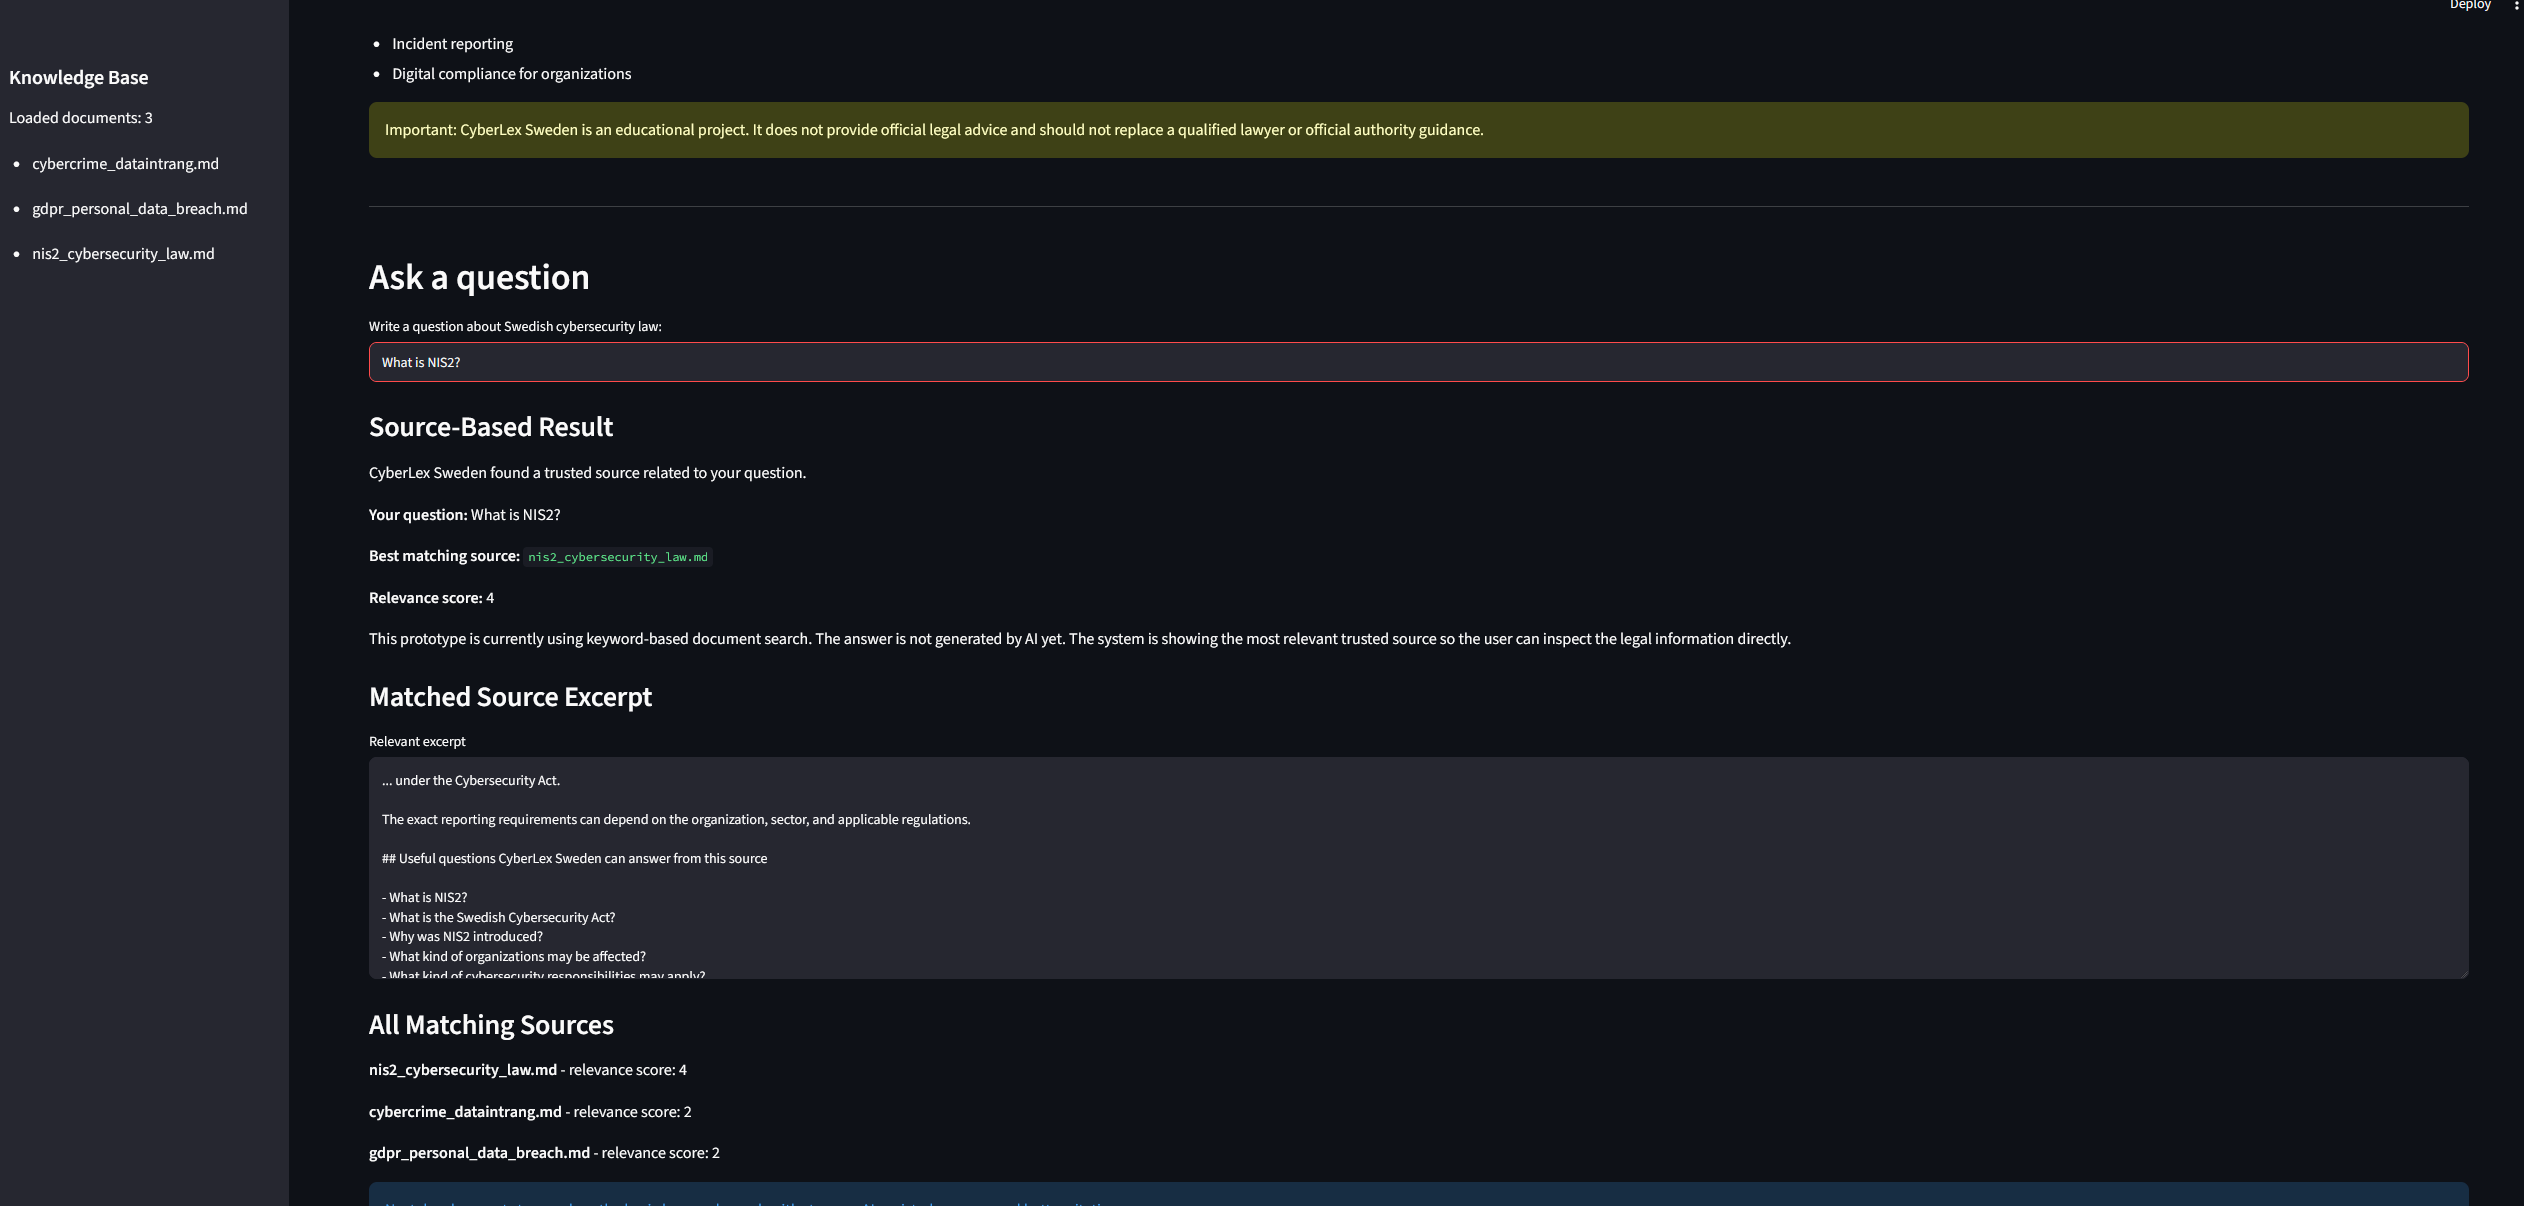
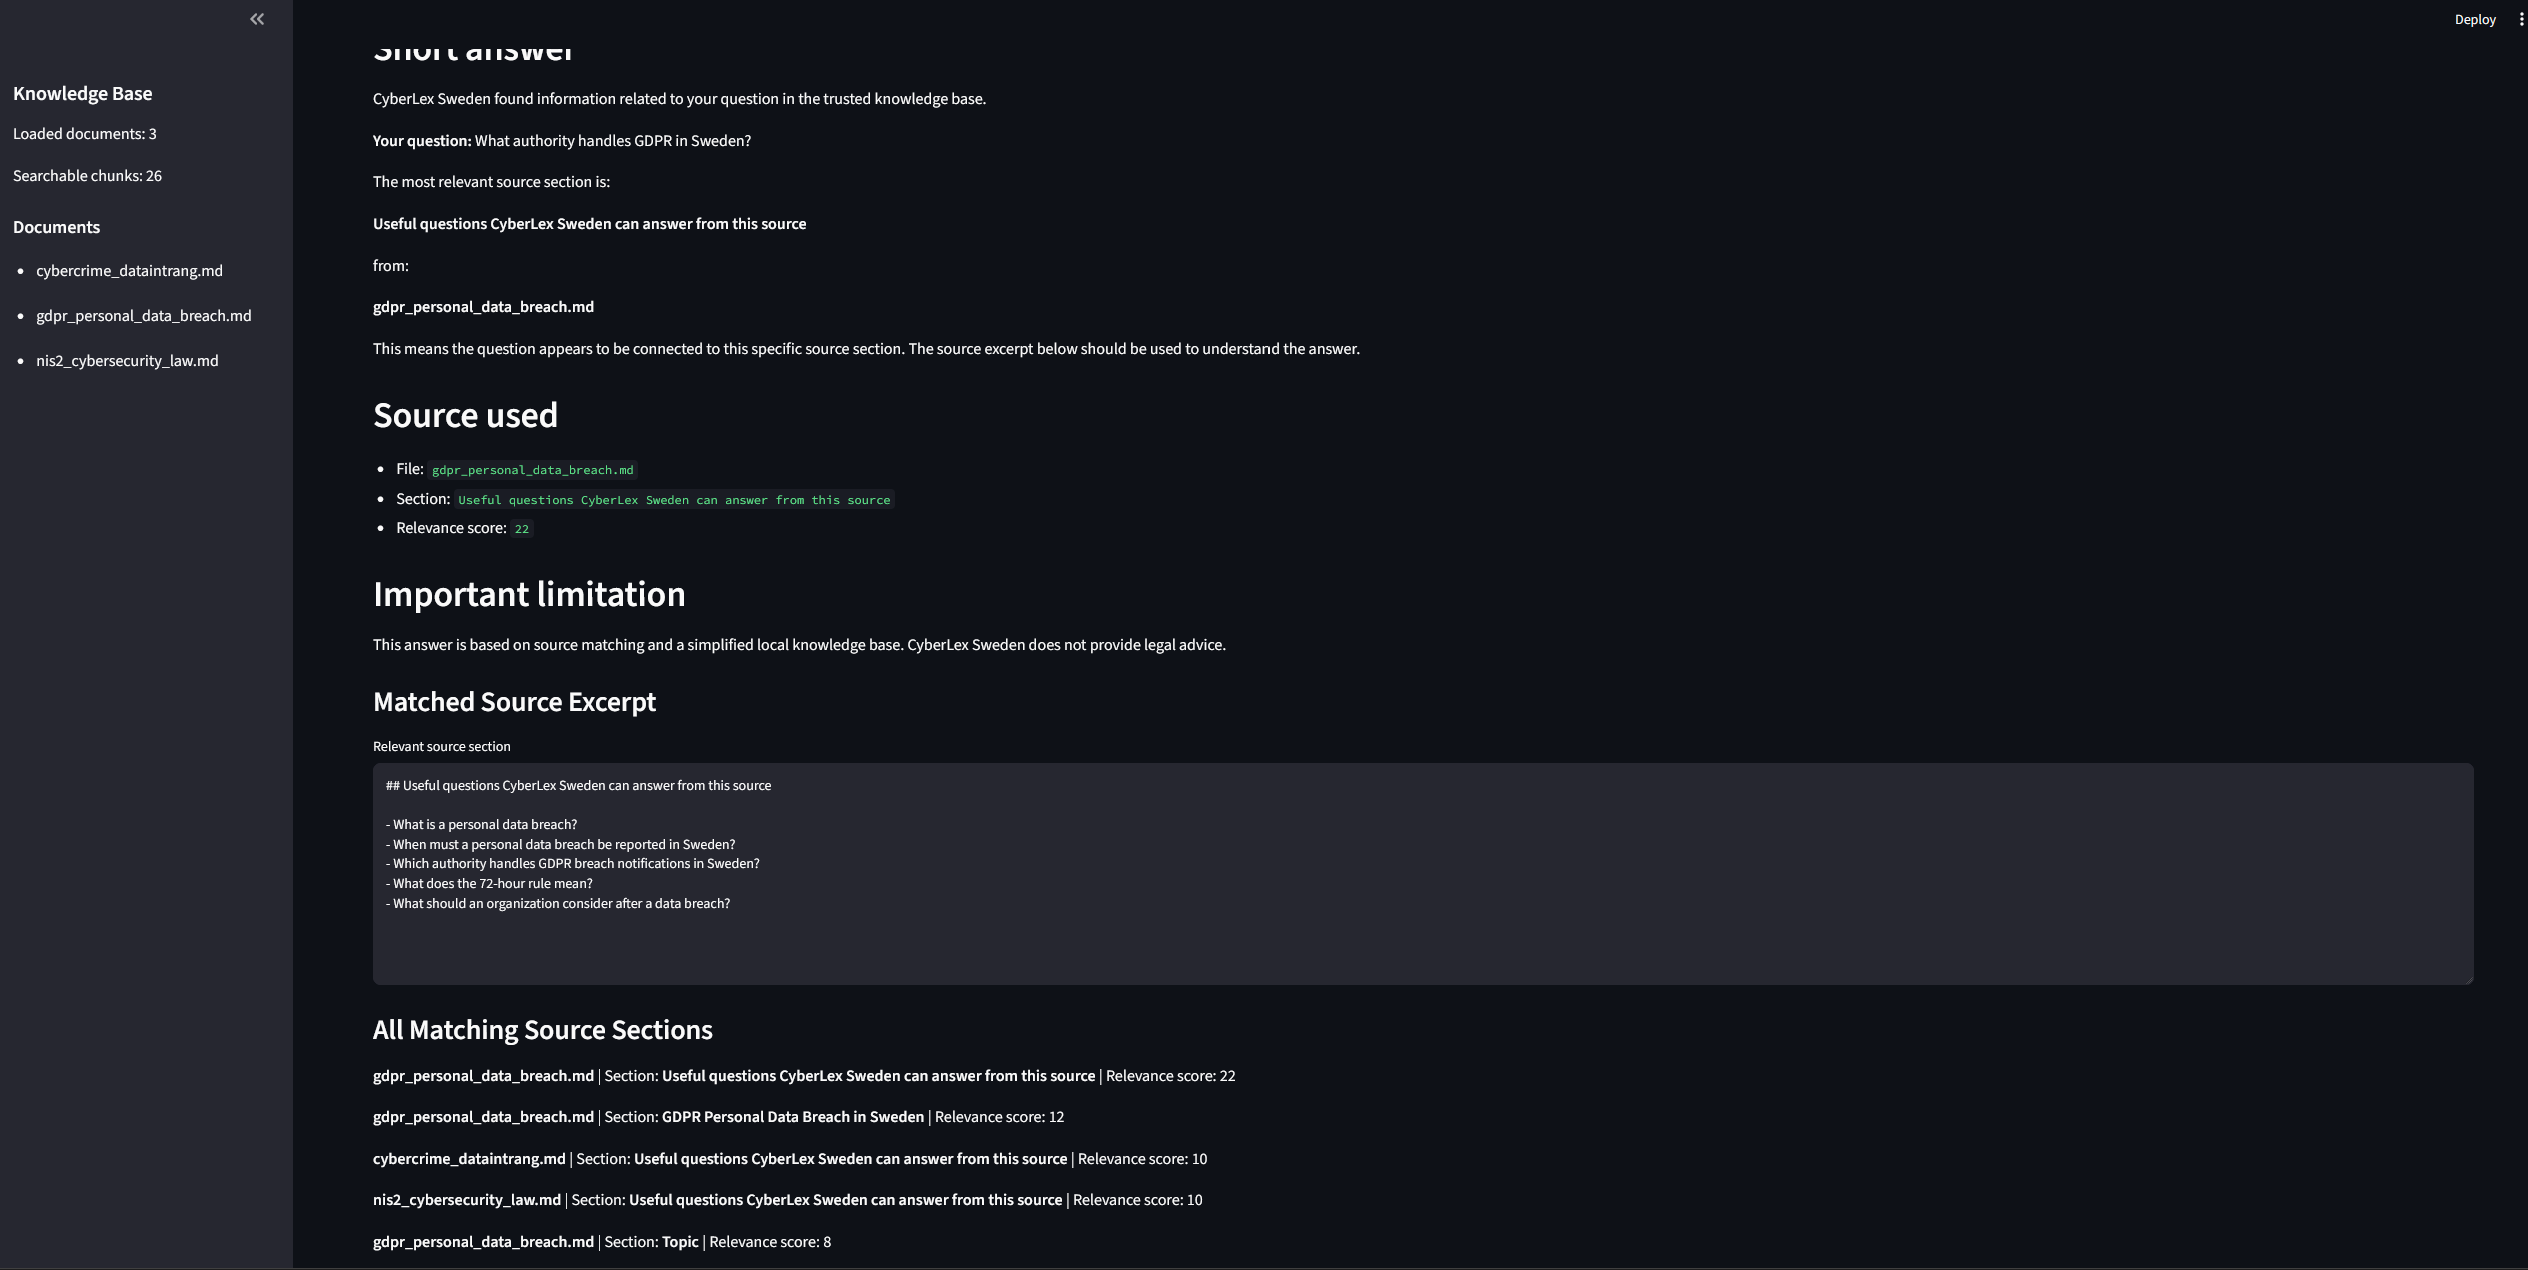
Improve source search results

diff --git a/app/main.py b/app/main.py
@@ -3,17 +3,30 @@ import streamlit as st
 
 st.set_page_config(
     page_title="CyberLex Sweden",
-    page_icon="🔐",
+    page_icon="💻",
     layout="wide"
 )
 
 DATA_DIR = Path("data")
 
 
+def clean_words(text):
+    """
+    Converts text into simple searchable words.
+    This makes matching easier by removing punctuation and using lowercase text.
+    """
+    punctuation = ",.?!:;()[]{}\"'`"
+    text = text.lower()
+
+    for mark in punctuation:
+        text = text.replace(mark, " ")
+
+    return text.split()
+
+
 def load_documents():
     """
     Loads all Markdown files from the data folder.
-    Each Markdown file becomes one searchable document.
     """
     documents = []
 
@@ -29,45 +42,94 @@ def load_documents():
     return documents
 
 
-def clean_words(text):
+def split_into_chunks(document):
     """
-    Converts text into simple searchable words.
-    This removes basic punctuation and makes everything lowercase.
+    Splits a Markdown document into smaller chunks based on headings.
+    Each chunk keeps track of the source filename and section title.
     """
-    punctuation = ",.?!:;()[]{}\"'`"
-    text = text.lower()
+    filename = document["filename"]
+    content = document["content"]
 
-    for mark in punctuation:
-        text = text.replace(mark, " ")
+    chunks = []
+    current_title = "Introduction"
+    current_lines = []
 
-    return text.split()
+    for line in content.splitlines():
+        if line.startswith("#"):
+            if current_lines:
+                chunks.append(
+                    {
+                        "filename": filename,
+                        "section": current_title,
+                        "content": "\n".join(current_lines).strip()
+                    }
+                )
+
+            current_title = line.replace("#", "").strip()
+            current_lines = [line]
+        else:
+            current_lines.append(line)
+
+    if current_lines:
+        chunks.append(
+            {
+                "filename": filename,
+                "section": current_title,
+                "content": "\n".join(current_lines).strip()
+            }
+        )
+
+    return chunks
 
 
-def search_documents(question, documents):
+def load_chunks():
     """
-    Searches the documents using keyword matching.
-    Each document gets a score based on how many question words appear in it.
+    Loads all documents and splits them into searchable chunks.
+    """
+    documents = load_documents()
+    all_chunks = []
+
+    for document in documents:
+        chunks = split_into_chunks(document)
+        all_chunks.extend(chunks)
+
+    return documents, all_chunks
+
+
+def search_chunks(question, chunks):
+    """
+    Searches document chunks using keyword matching.
+    Smaller chunks make the search more precise than searching whole files.
     """
     question_words = clean_words(question)
     results = []
 
-    for doc in documents:
-        content_words = clean_words(doc["content"])
-        content_text = doc["content"].lower()
+    for chunk in chunks:
+        chunk_words = clean_words(chunk["content"])
+        chunk_text = chunk["content"].lower()
+        section_text = chunk["section"].lower()
 
         score = 0
 
         for word in question_words:
-            if len(word) > 2 and word in content_words:
+            if len(word) <= 2:
+                continue
+
+            if word in chunk_words:
+                score += 3
+
+            if word in section_text:
                 score += 2
-            elif len(word) > 2 and word in content_text:
+
+            if word in chunk_text:
                 score += 1
 
         if score > 0:
             results.append(
                 {
-                    "filename": doc["filename"],
-                    "content": doc["content"],
+                    "filename": chunk["filename"],
+                    "section": chunk["section"],
+                    "content": chunk["content"],
                     "score": score
                 }
             )
@@ -76,41 +138,10 @@ def search_documents(question, documents):
     return results
 
 
-def create_excerpt(content, question, excerpt_length=700):
+def create_basic_answer(question, best_match):
     """
-    Creates a shorter excerpt from the source document.
-    It tries to find the first word from the question inside the source text.
-    """
-    content_lower = content.lower()
-    question_words = clean_words(question)
-
-    match_position = 0
-
-    for word in question_words:
-        if len(word) > 2:
-            position = content_lower.find(word)
-            if position != -1:
-                match_position = position
-                break
-
-    start = max(match_position - 200, 0)
-    end = min(start + excerpt_length, len(content))
-
-    excerpt = content[start:end].strip()
-
-    if start > 0:
-        excerpt = "... " + excerpt
-
-    if end < len(content):
-        excerpt = excerpt + " ..."
-
-    return excerpt
-
-
-def create_basic_answer(question, best_match, excerpt):
-    """
-    Creates a simple structured answer using the best matching source.
-    This is not full AI yet, but it formats the retrieved source into a clearer answer.
+    Creates a simple structured answer using the best matching source chunk.
+    This is still not full AI, but it gives a clearer source-grounded result.
     """
     return f"""
 ## Short answer
@@ -119,15 +150,20 @@ CyberLex Sweden found information related to your question in the trusted knowle
 
 **Your question:** {question}
 
-The most relevant source is:
+The most relevant source section is:
+
+**{best_match["section"]}**
+
+from:
 
 **{best_match["filename"]}**
 
-This means the question appears to be connected to the topic described in that source file. The source excerpt below should be used to understand the answer.
+This means the question appears to be connected to this specific source section. The source excerpt below should be used to understand the answer.
 
 ## Source used
 
-- `{best_match["filename"]}`
+- File: `{best_match["filename"]}`
+- Section: `{best_match["section"]}`
 - Relevance score: `{best_match["score"]}`
 
 ## Important limitation
@@ -158,11 +194,13 @@ st.warning(
 
 st.divider()
 
-documents = load_documents()
+documents, chunks = load_chunks()
 
 st.sidebar.header("Knowledge Base")
 st.sidebar.write(f"Loaded documents: {len(documents)}")
+st.sidebar.write(f"Searchable chunks: {len(chunks)}")
 
+st.sidebar.subheader("Documents")
 for doc in documents:
     st.sidebar.write(f"- {doc['filename']}")
 
@@ -173,31 +211,32 @@ question = st.text_input(
 )
 
 if question:
-    search_results = search_documents(question, documents)
+    search_results = search_chunks(question, chunks)
 
     if search_results:
         best_match = search_results[0]
-        excerpt = create_excerpt(best_match["content"], question)
 
         st.subheader("CyberLex Answer")
-        st.markdown(create_basic_answer(question, best_match, excerpt))
+        st.markdown(create_basic_answer(question, best_match))
 
         st.subheader("Matched Source Excerpt")
         st.text_area(
-            "Relevant excerpt",
-            excerpt,
+            "Relevant source section",
+            best_match["content"],
             height=250
         )
 
-        st.subheader("All Matching Sources")
+        st.subheader("All Matching Source Sections")
 
-        for result in search_results:
+        for result in search_results[:5]:
             st.write(
-                f"**{result['filename']}** - relevance score: {result['score']}"
+                f"**{result['filename']}** | "
+                f"Section: **{result['section']}** | "
+                f"Relevance score: {result['score']}"
             )
 
         st.info(
-            "Next development step: replace the basic keyword search with stronger AI-assisted answers and better citations."
+            "Next development step: connect this chunk-based search to AI-generated explanations."
         )
 
     else: